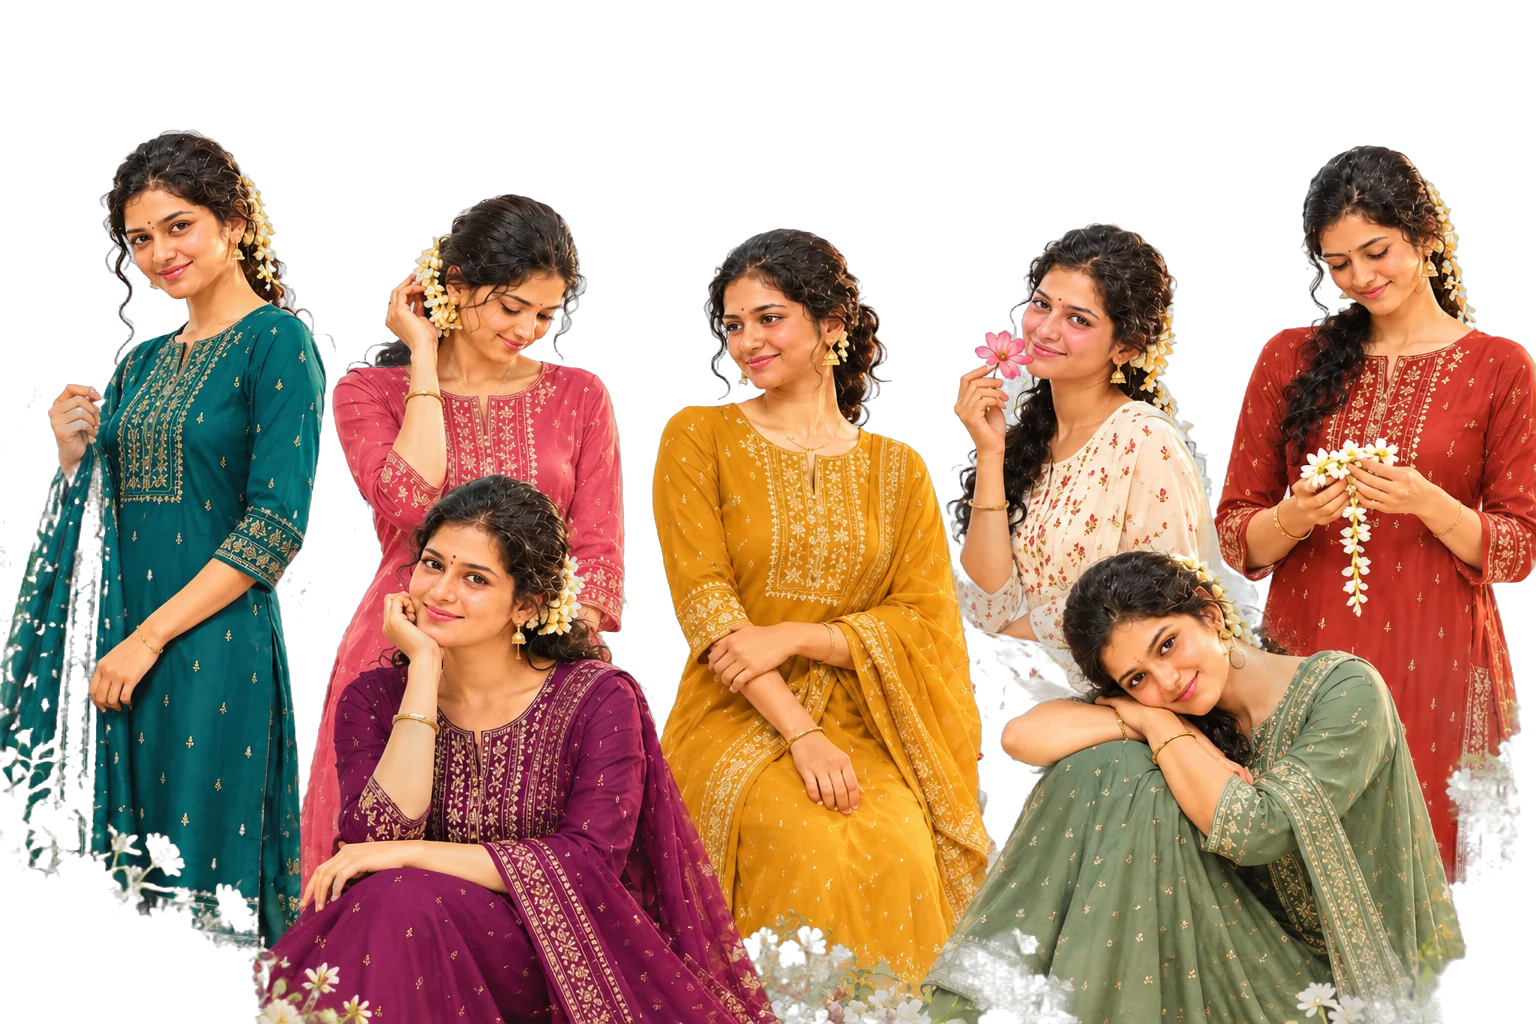
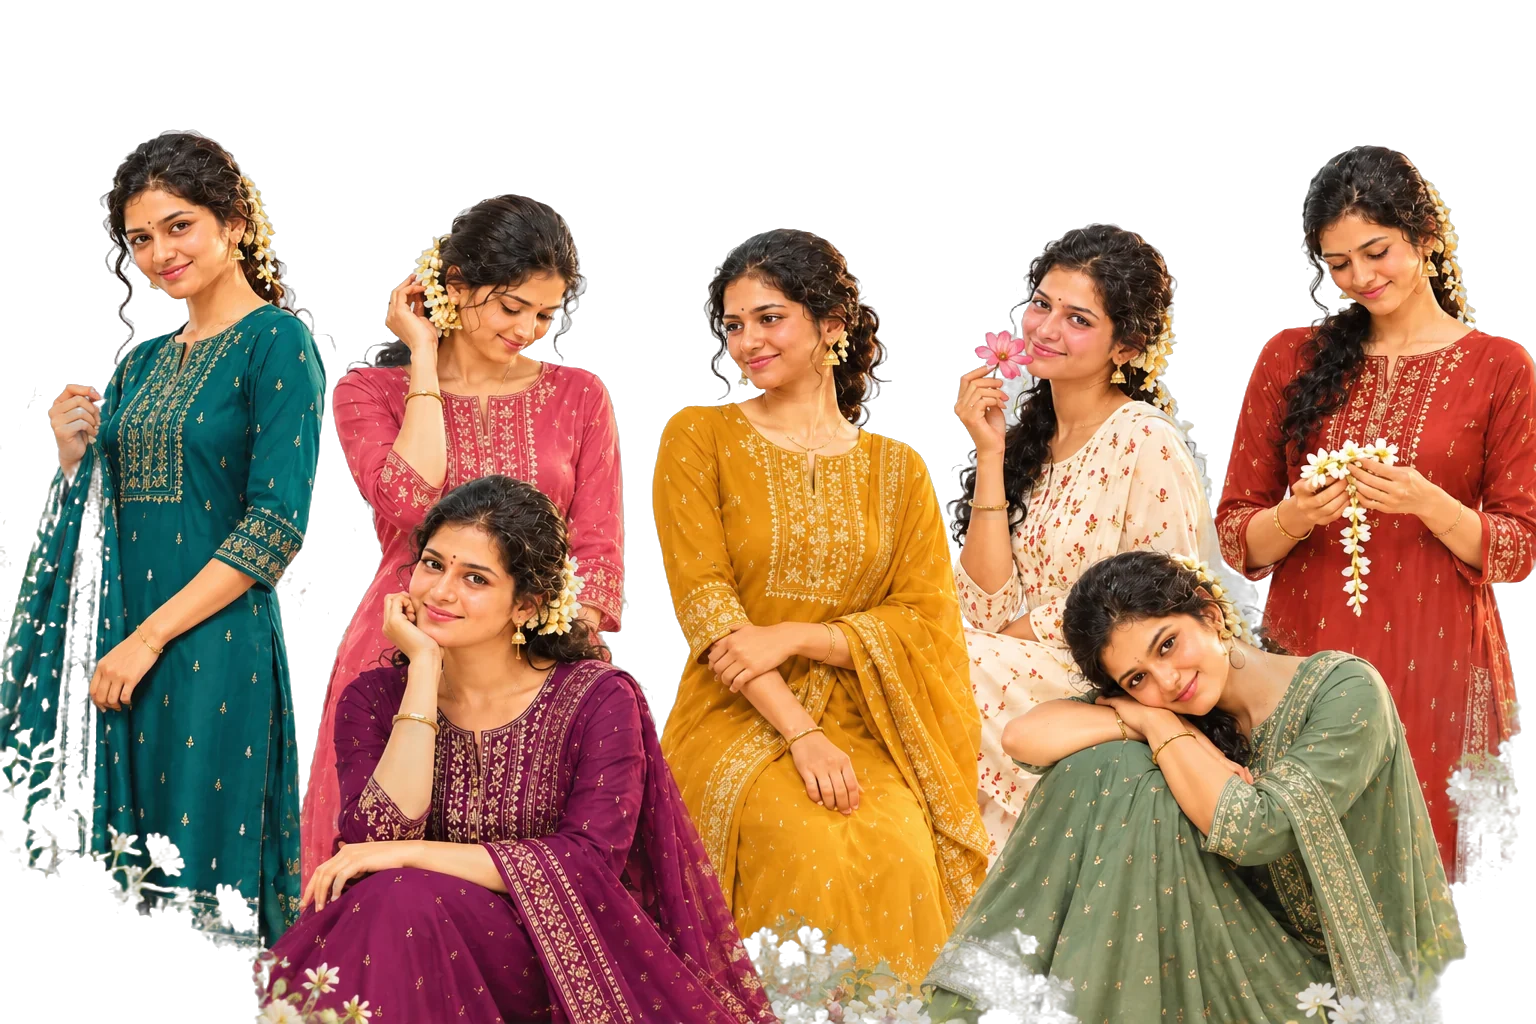
Hero: layered 3D parallax scene; restore full-length model cutout

Changed region(s): [[0.625, 0.5625, 0.7188, 0.8438], [0.5938, 0.5, 0.625, 0.5312]]

diff --git a/static/storefront/script.js b/static/storefront/script.js
@@ -1969,13 +1969,14 @@ async function initFirstOrderOffer() {
 const offerDelay = Math.max(0, 10000 - performance.now());
 setTimeout(initFirstOrderOffer, offerDelay);
 
-// Timeless Classic lookbook: layered scroll parallax with a light pointer tilt on desktop.
+// Hero (Timeless Classic): layered scroll parallax with a light pointer tilt on desktop.
 (function setupLookbook3d() {
   const stage = document.querySelector('[data-lookbook3d]');
   if (!stage) return;
   const layers = {};
   stage.querySelectorAll('[data-depth]').forEach(layer => { layers[layer.dataset.depth] = layer; });
   const reducedMotion = window.matchMedia('(prefers-reduced-motion: reduce)');
+  const host = stage.closest('.hero') || stage.parentElement;
   const finePointer = window.matchMedia('(hover: hover) and (pointer: fine)');
   const pointer = { x: 0, y: 0, targetX: 0, targetY: 0 };
   let visible = false;
@@ -1998,14 +1999,14 @@ setTimeout(initFirstOrderOffer, offerDelay);
     pointer.y += (pointer.targetY - pointer.y) * 0.12;
     const px = pointer.x, py = pointer.y;
 
-    stage.style.transform = `perspective(1400px) rotateX(${(progress * 3 - py * 1.5).toFixed(3)}deg) rotateY(${(px * 2).toFixed(3)}deg)`;
-    if (layers.garden) layers.garden.style.transform = `translate3d(${(px * -8).toFixed(2)}px, ${(-progress * h * 0.07 - py * 5).toFixed(2)}px, 0) scale(1.18)`;
+    stage.style.transform = `perspective(1400px) rotateX(${(progress * 2 - py * 1.2).toFixed(3)}deg) rotateY(${(px * 1.6).toFixed(3)}deg) scale(1.04)`;
+    if (layers.garden) layers.garden.style.transform = `translate3d(${(px * -8).toFixed(2)}px, ${(-progress * h * 0.1 - py * 5).toFixed(2)}px, 0) scale(1.18)`;
     if (layers.title) {
-      layers.title.style.transform = `translate3d(${(px * -4).toFixed(2)}px, ${(-progress * h * 0.05).toFixed(2)}px, 0)`;
-      layers.title.style.opacity = String(Math.max(0.35, 1 - Math.abs(progress) * 0.7).toFixed(3));
+      layers.title.style.transform = `translate3d(${(px * -4).toFixed(2)}px, ${(-progress * h * 0.16).toFixed(2)}px, 0)`;
+      layers.title.style.opacity = String(Math.max(0.2, 1 - Math.abs(progress) * 1.1).toFixed(3));
     }
-    if (layers.models) layers.models.style.transform = `translate3d(${(px * 6).toFixed(2)}px, ${(progress * h * 0.015).toFixed(2)}px, 0) scale(1.02)`;
-    if (layers.flowers) layers.flowers.style.transform = `translate3d(${(px * 16).toFixed(2)}px, ${(progress * h * 0.05 + py * 6).toFixed(2)}px, 0)`;
+    if (layers.models) layers.models.style.transform = `translate3d(${(px * 6).toFixed(2)}px, ${(progress * h * 0.02).toFixed(2)}px, 0) scale(1.02)`;
+    if (layers.flowers) layers.flowers.style.transform = `translate3d(${(px * 16).toFixed(2)}px, ${(progress * h * 0.08 + py * 6).toFixed(2)}px, 0)`;
 
     if (Math.abs(pointer.targetX - pointer.x) > 0.002 || Math.abs(pointer.targetY - pointer.y) > 0.002) schedule();
   };
@@ -2024,14 +2025,14 @@ setTimeout(initFirstOrderOffer, offerDelay);
   window.addEventListener('resize', schedule, { passive: true });
   reducedMotion.addEventListener('change', () => { reset(); schedule(); });
 
-  stage.parentElement.addEventListener('pointermove', event => {
+  host.addEventListener('pointermove', event => {
     if (!finePointer.matches || reducedMotion.matches) return;
     const rect = stage.getBoundingClientRect();
     pointer.targetX = Math.max(-1, Math.min(1, ((event.clientX - rect.left) / rect.width) * 2 - 1));
     pointer.targetY = Math.max(-1, Math.min(1, ((event.clientY - rect.top) / rect.height) * 2 - 1));
     schedule();
   });
-  stage.parentElement.addEventListener('pointerleave', () => {
+  host.addEventListener('pointerleave', () => {
     pointer.targetX = 0;
     pointer.targetY = 0;
     schedule();

diff --git a/static/storefront/style.css b/static/storefront/style.css
@@ -862,19 +862,23 @@ html{-webkit-text-size-adjust:100%;text-size-adjust:100%}
 .site-footer .footer-bottom{padding-top:16px}
 @media(max-width:640px){.footer-community-row{gap:16px;grid-template-columns:minmax(0,1.3fr) minmax(0,1fr)}.footer-community-row .name-suggestion-popup h2{font-size:16px}.footer-community-row .name-suggestion-fields{flex-direction:column}}
 
-/* Timeless Classic layered lookbook (scroll parallax) */
-.lookbook3d{padding:0 5vw 140px}
-.lookbook3d-stage{position:relative;width:min(100%,calc(86vh * 1.5));aspect-ratio:3/2;margin:0 auto;overflow:hidden;border-radius:10px;background:#f1e4cc;isolation:isolate;transform-origin:center 60%;will-change:transform}
+/* Hero: Timeless Classic layered 3D scene (scroll parallax + light pointer tilt). */
+.hero{background:#f1e4cc}
+.hero-stage{position:absolute;inset:0;overflow:hidden;border-radius:10px;isolation:isolate;transform-origin:center 60%;will-change:transform}
 .lookbook3d-layer{position:absolute;left:0;top:0;width:100%;height:100%;pointer-events:none;will-change:transform;backface-visibility:hidden}
 .lookbook3d-garden{object-fit:cover;transform:scale(1.18)}
-.lookbook3d-models{object-fit:cover;object-position:center bottom;transform:scale(1.02);transform-origin:center bottom}
+.lookbook3d-models{object-fit:cover;object-position:center 35%;transform:scale(1.02)}
 .lookbook3d-flowers{top:auto;bottom:-15%;left:-2%;width:104%;height:auto;object-fit:contain}
 .lookbook3d-title{height:auto;top:4%;display:flex;flex-direction:column;align-items:center;text-align:center;color:#6e1a35}
-.lookbook3d-title h2{font:500 clamp(1.5rem,4.6vw,4.4rem)/1 'Cormorant Garamond','Playfair Display',serif;font-variant:small-caps;letter-spacing:.05em;margin:0}
+.lookbook3d-heading{font:500 clamp(1.5rem,4.6vw,4.4rem)/1 'Cormorant Garamond','Playfair Display',serif;font-variant:small-caps;letter-spacing:.05em;margin:0}
 .lookbook3d-divider{display:block;width:clamp(120px,22vw,320px);height:12px;margin-top:clamp(4px,.8vw,12px);background:linear-gradient(90deg,transparent,#b08a3e 18%,#b08a3e 44%,transparent 44%,transparent 56%,#b08a3e 56%,#b08a3e 82%,transparent) center/100% 1px no-repeat;position:relative}
 .lookbook3d-divider::after{content:"";position:absolute;left:50%;top:50%;width:8px;height:8px;border:1px solid #b08a3e;transform:translate(-50%,-50%) rotate(45deg)}
-.lookbook3d-copy{max-width:min(100%,calc(86vh * 1.5));margin:28px auto 0;display:flex;justify-content:space-between;align-items:end;gap:24px}
-.lookbook3d-copy p{margin:0;max-width:520px;font-size:17px;line-height:1.6;color:#5c5248}
-.lookbook3d-copy .shop-all{flex-shrink:0}
-@media(max-width:640px){.lookbook3d{padding:0 0 96px}.lookbook3d-stage{border-radius:0}.lookbook3d-copy{flex-direction:column;align-items:start;padding:0 5vw;gap:16px}.lookbook3d-copy p{font-size:15px}}
-@media(prefers-reduced-motion:reduce){.lookbook3d-stage,.lookbook3d-layer{will-change:auto}}
+.hero .hero-copy{z-index:3}
+@media(max-width:640px){
+  .hero{height:auto;min-height:0;overflow:visible;background:none;border-radius:0}
+  .hero-stage{position:relative;inset:auto;aspect-ratio:3/2;border-radius:0}
+  .hero .hero-copy{position:relative;left:auto;right:auto;bottom:auto;margin:20px 6vw 0;padding:0;background:none;border:0;border-radius:0;color:var(--ink);transform:none}
+  .hero .hero-copy .eyebrow{color:#7a6e62}
+  .hero .hero-copy .arrow-link{color:var(--ink);border-color:var(--ink)}
+}
+@media(prefers-reduced-motion:reduce){.hero-stage,.lookbook3d-layer{will-change:auto}}

diff --git a/static/storefront/index.html b/static/storefront/index.html
@@ -133,7 +133,15 @@
 
   <main id="top">
     <section class="hero">
-      <div class="hero-image parallax" data-speed="0.14"></div>
+      <div class="lookbook3d-stage hero-stage" data-lookbook3d>
+        <img class="lookbook3d-layer lookbook3d-garden" data-depth="garden" src="/static/storefront/assets/lookbook-garden.webp" alt="" aria-hidden="true" fetchpriority="high" decoding="async" width="1536" height="1024">
+        <div class="lookbook3d-layer lookbook3d-title" data-depth="title" aria-hidden="true">
+          <p class="lookbook3d-heading">Timeless Classic</p>
+          <span class="lookbook3d-divider"></span>
+        </div>
+        <img class="lookbook3d-layer lookbook3d-models" data-depth="models" src="/static/storefront/assets/lookbook-models.webp" alt="Seven women in embroidered chudidar sets in teal, rose, plum, mustard, ivory, sage and rust, with jasmine in their hair" fetchpriority="high" decoding="async" width="1536" height="1024">
+        <img class="lookbook3d-layer lookbook3d-flowers" data-depth="flowers" src="/static/storefront/assets/lookbook-flowers.webp" alt="" aria-hidden="true" decoding="async" width="1536" height="464">
+      </div>
       <div class="hero-copy">
         <p class="eyebrow">The festive edit · 2026</p>
         <h1>Clothes that carry <em>home</em> with them.</h1>
@@ -151,22 +159,6 @@
         </div>
       </div>
       <div class="new-launches-track" id="new-launches-track" aria-label="New launches"></div>
-    </section>
-
-    <section class="lookbook3d reveal" aria-labelledby="lookbook3d-title">
-      <div class="lookbook3d-stage" data-lookbook3d>
-        <img class="lookbook3d-layer lookbook3d-garden" data-depth="garden" src="/static/storefront/assets/lookbook-garden.webp" alt="" aria-hidden="true" loading="lazy" decoding="async" width="1536" height="1024">
-        <div class="lookbook3d-layer lookbook3d-title" data-depth="title">
-          <h2 id="lookbook3d-title">Timeless Classic</h2>
-          <span class="lookbook3d-divider" aria-hidden="true"></span>
-        </div>
-        <img class="lookbook3d-layer lookbook3d-models" data-depth="models" src="/static/storefront/assets/lookbook-models.webp" alt="Seven women in embroidered chudidar sets in teal, rose, plum, mustard, ivory, sage and rust, with jasmine in their hair" loading="lazy" decoding="async" width="1536" height="1024">
-        <img class="lookbook3d-layer lookbook3d-flowers" data-depth="flowers" src="/static/storefront/assets/lookbook-flowers.webp" alt="" aria-hidden="true" loading="lazy" decoding="async" width="1536" height="464">
-      </div>
-      <div class="lookbook3d-copy">
-        <p>Heirloom colours, hand-finished embroidery and jasmine-season ease, made for the days you will want to remember.</p>
-        <a class="shop-all" href="/shop/collections">Explore the collection</a>
-      </div>
     </section>
 
     <section class="collection-section reveal" id="collection">
